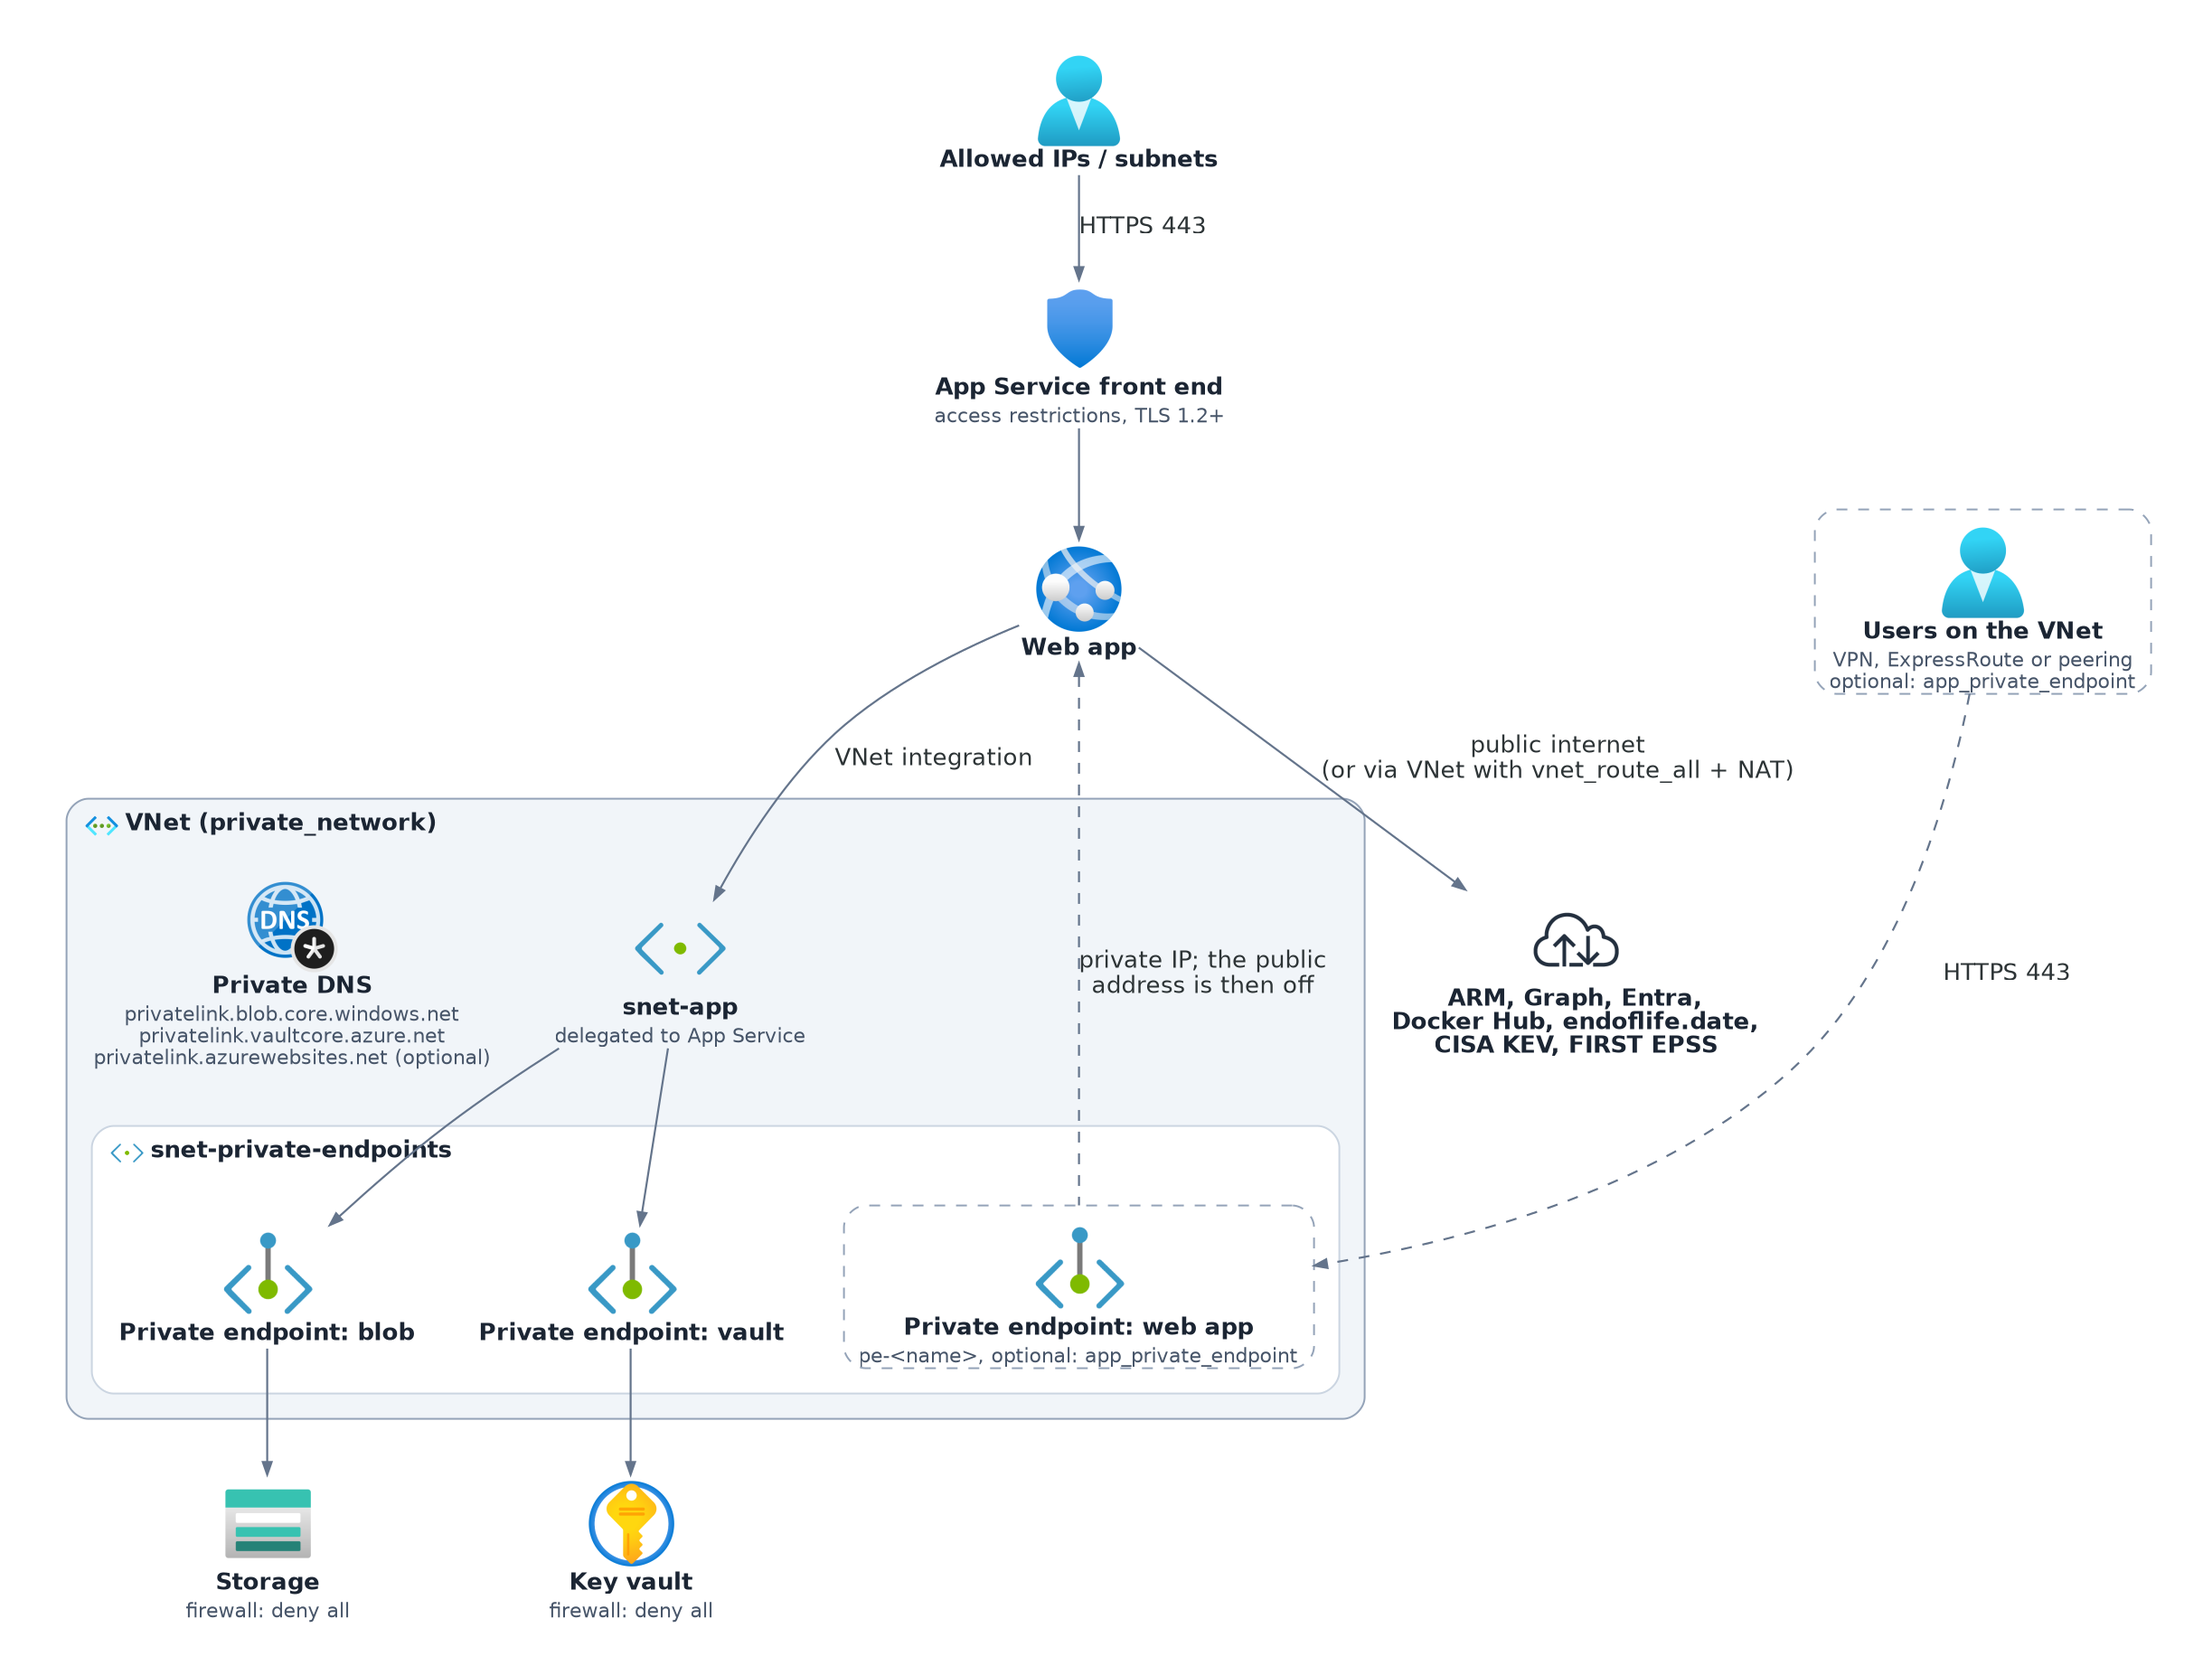
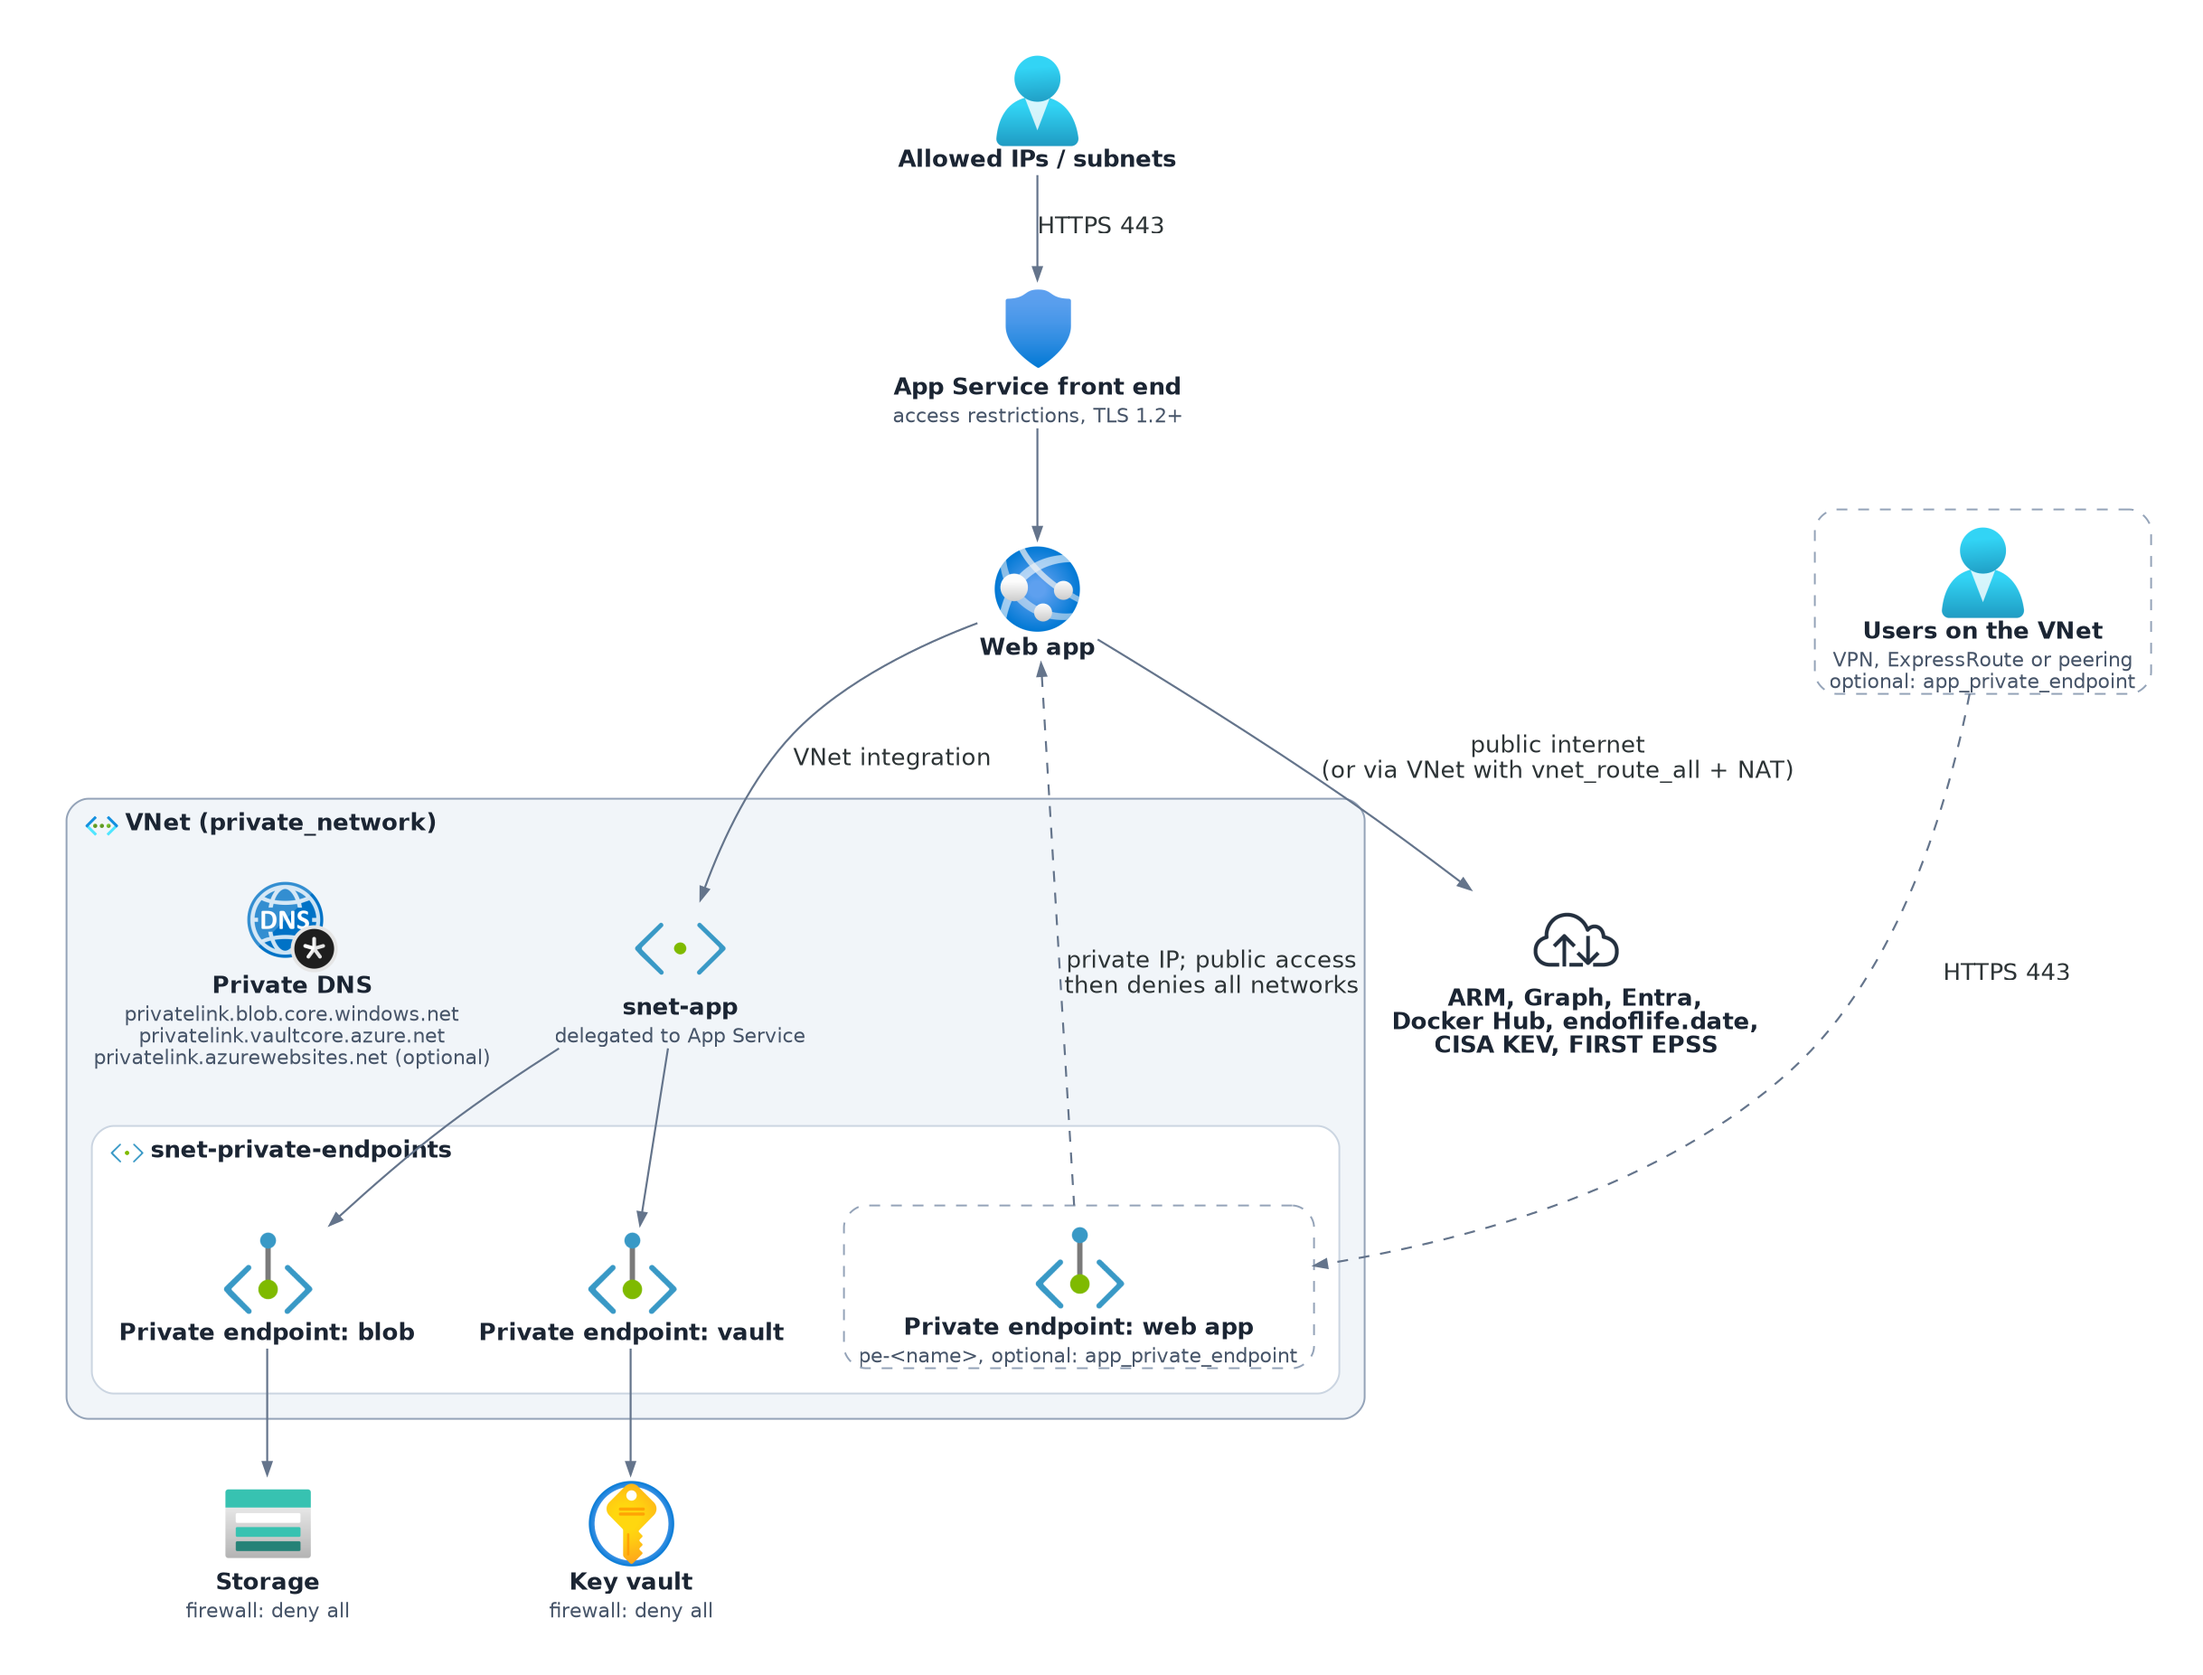
Docs: web app private endpoint keeps public access on behind deny-all restrictions (module v1.7.0)

diff --git a/docs/diagrams/arch-network.py b/docs/diagrams/arch-network.py
@@ -35,7 +35,7 @@ with picture(__file__):
     pekv >> link() >> kv
     app >> link("public internet\n(or via VNet with vnet_route_all + NAT)") >> azure
     vuser >> link("HTTPS 443", dashed=True) >> peapp
-    app << link("private IP; the public\naddress is then off", dashed=True) << peapp
+    app << link("private IP; public access\nthen denies all networks", dashed=True) << peapp
     same_rank(snapp, dns)
     same_rank(vuser, app)
     same_rank(pest, pekv, peapp)

diff --git a/docs/lld-setup.md b/docs/lld-setup.md
@@ -267,13 +267,14 @@ only drops its Settings changes.
   means that scan uses its last kept copy; without one, End of support uses its built-in dates and the CVE scan
   ranks by Defender's severity only. `CVE_FEEDS = off` makes neither CVE call.
 - `allowed_ip_ranges` and `allowed_subnet_ids` limit who can reach the site; the Kudu (scm) site follows the same
-  rules. `allowed_subnet_ids` keeps the public address and lets in subnets with the `Microsoft.Web` service endpoint;
+  rules, except with `continuous_deployment`, which keeps it open for the deploy webhook (publishing credentials
+  still needed). `allowed_subnet_ids` keeps the public address and lets in subnets with the `Microsoft.Web` service endpoint;
   it creates no private endpoint.
 - `app_private_endpoint = true`: the web app itself gets an inbound private endpoint (`pe-<name>`) in the private
-  endpoint subnet and its public network access is off, for the site and the scm site. A
+  endpoint subnet. Its public network access stays on (so deployments are not blocked), but the access
+  restrictions deny every network except `allowed_ip_ranges` and `allowed_subnet_ids` (module v1.7.0). A
   `privatelink.azurewebsites.net` zone is created and linked to the VNet, or `app_private_dns_zone_id` points at an
-  existing hub zone. Needs `private_network = true`; refused together with `allowed_ip_ranges`, `allowed_subnet_ids`
-  or `continuous_deployment`. Works with either `private_access` (with `"service_endpoint"` the private endpoint
+  existing hub zone. Needs `private_network = true`. Works with either `private_access` (with `"service_endpoint"` the private endpoint
   subnet is then created too, or set `private_endpoint_subnet_id` with an existing VNet). The `private_network`
   output gains `app_endpoint_id`, `app_private_ip` and `app_public_access`.
 - With it, people need a network path to the VNet (VPN, ExpressRoute or peering) and DNS that resolves

diff --git a/docs/architecture.md b/docs/architecture.md
@@ -141,9 +141,9 @@ reached only with Entra tokens. Three optional layers:
 - `private_network = true`: the web app joins a VNet and reaches storage and vault through private endpoints. Their
   public access stays on, but their firewalls deny every network, so only the private endpoints get through.
 - `app_private_endpoint = true` (needs `private_network`): the web app itself gets an inbound private endpoint and
-  its public address is turned off, so the site answers only inside the VNet and from networks joined to it (VPN,
-  ExpressRoute or peering) that resolve `privatelink.azurewebsites.net`. Not together with the access restrictions
-  or `continuous_deployment`.
+  its public access stays on behind access restrictions that deny every network, so the site answers only inside the
+  VNet and from networks joined to it (VPN, ExpressRoute or peering) that resolve `privatelink.azurewebsites.net`,
+  plus any allowed IPs or subnets. With `continuous_deployment` the Kudu (scm) site stays open for the deploy webhook.
 
 ![Network with private_network](diagrams/arch-network.png)
 

diff --git a/SECURITY.md b/SECURITY.md
@@ -29,8 +29,8 @@ to the tenant.
   makes its own and keeps it in `DATA_DIR/session-secret`.
 - **Network:** serve it over HTTPS only, and let in only the addresses that need it (the Terraform module's
   `allowed_ip_ranges` and `allowed_subnet_ids` refuse everything else before it reaches the app). The strictest
-  option is `app_private_endpoint`: the site has no public address at all and is reached only through the VNet
-  (VPN, ExpressRoute or peering).
+  option is `app_private_endpoint`: the site's access restrictions deny every network, so it is reached only through
+  the VNet (VPN, ExpressRoute or peering) and any addresses you allow.
 - **The app's own identity:** grant only what the scans need (Reader, Cost Management Reader and the Graph
   read permissions in [docs/permissions.md](docs/permissions.md)). It needs no write rights anywhere.
 - **Updates:** run the `stable` image and update it regularly. Every image is scanned by Trivy before it is pushed,

diff --git a/CHANGELOG.md b/CHANGELOG.md
@@ -21,6 +21,15 @@ Steps needed when moving past a version. Read this before you change the image t
 - **0.53.4.0: the image is built on Node.js 26.** Running from source needs Node.js 22 or newer; 26 is what is
   tested.
 
+## [0.60.0.2] - 2026-10-30
+
+### Changed
+
+- Documentation: with the Terraform module's `app_private_endpoint` (module v1.7.0) the web app keeps public network
+  access on behind access restrictions that deny every network, so deployments are not blocked; allowed IPs and
+  subnets work with it, and `continuous_deployment` keeps the Kudu site open for the deploy webhook. The setup LLD,
+  the architecture page, SECURITY.md and the network picture say so.
+
 ## [0.60.0.1] - 2026-10-30
 
 ### Changed
